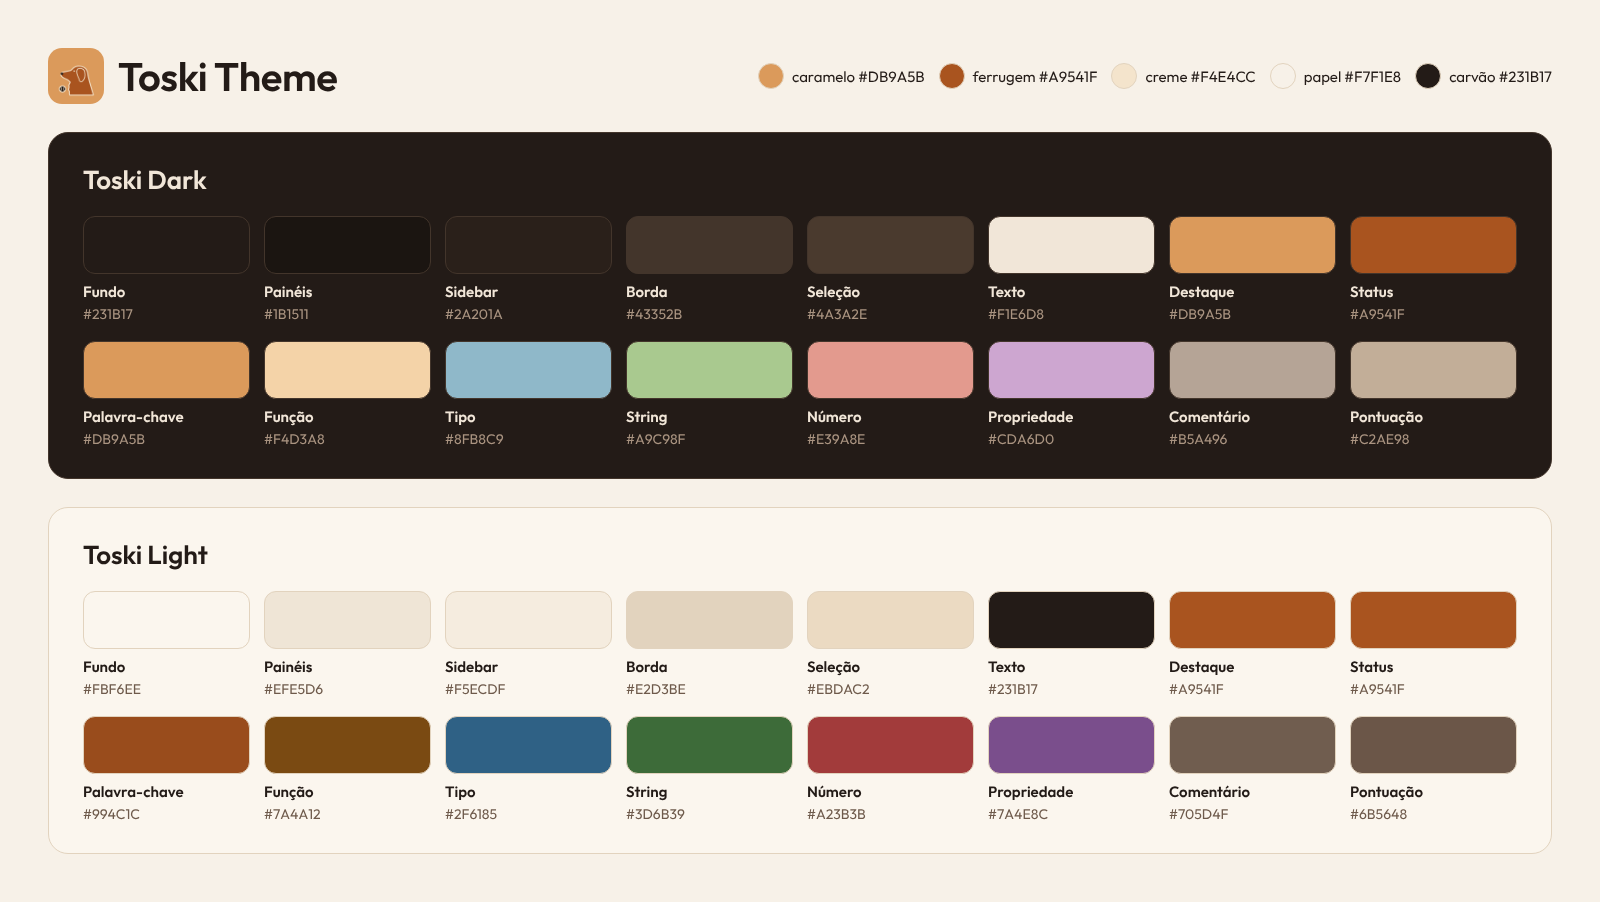
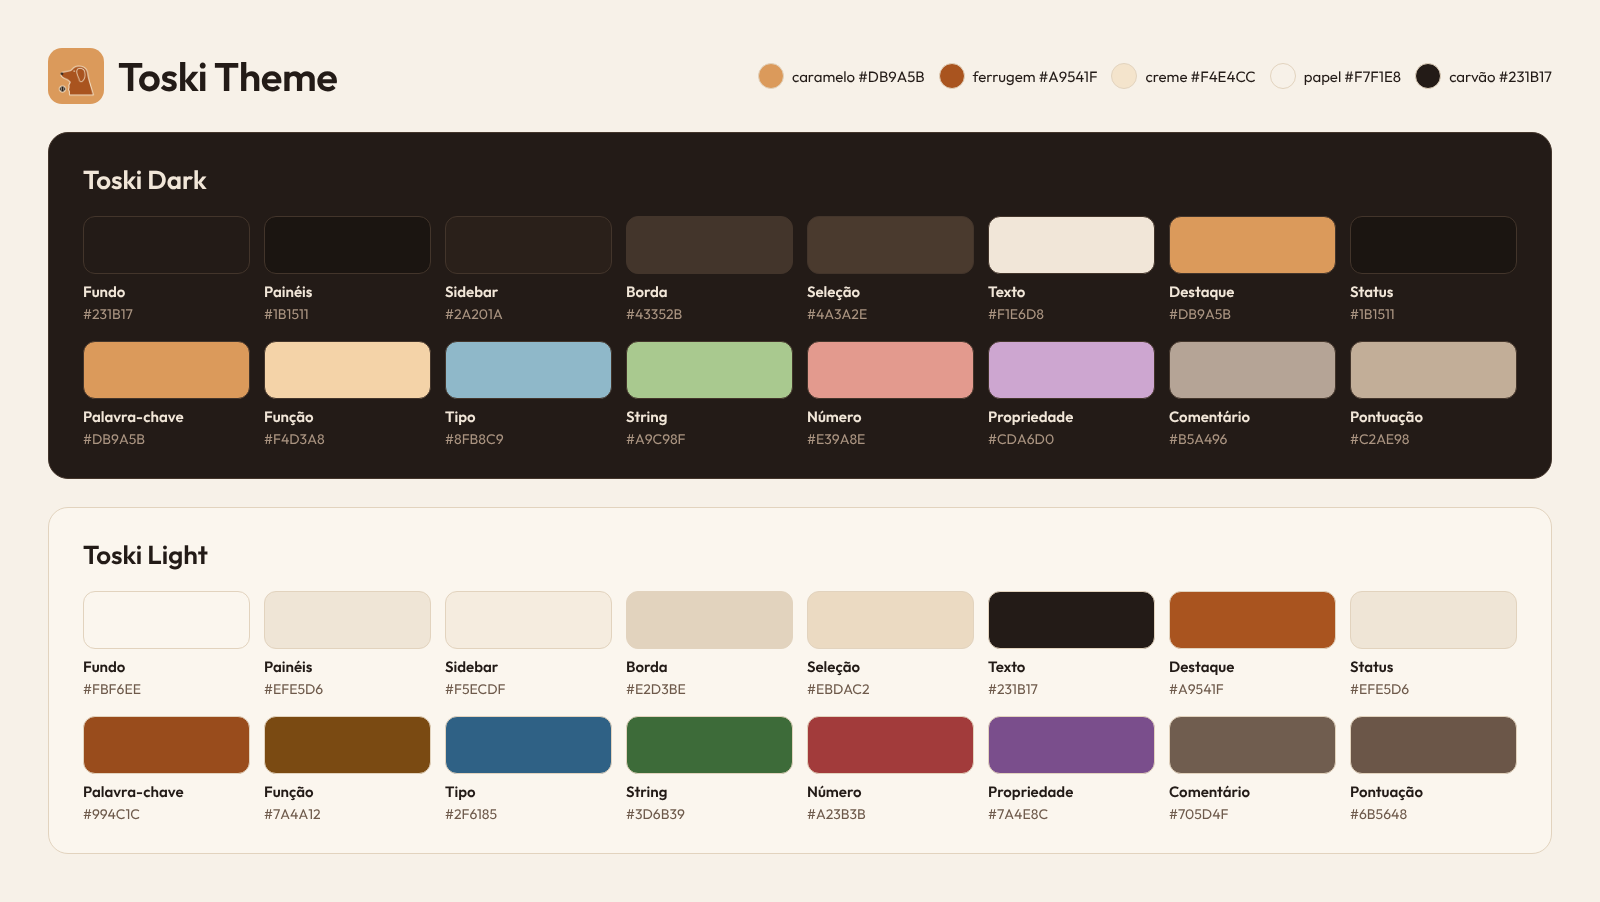
Barra de status discreta nos dois temas
A barra usa a cor dos painéis com texto secundário e só fica ferrugem
durante o debug. Screenshots e paleta atualizados.

Changed region(s): [[0.8438, 0.6519, 0.9688, 0.7761], [0.8438, 0.2173, 0.9688, 0.3104], [0.8438, 0.3415, 0.875, 0.3725]]

diff --git a/scripts/contrast-report.md b/scripts/contrast-report.md
@@ -213,8 +213,12 @@
 | interface | título da janela | `#F1E6D8` | title bar | `#1B1511` | 14.67 | ok |
 | interface | placeholder | `#AA9481` | input | `#1B1511` | 6.25 | ok |
 | interface | texto do input | `#F1E6D8` | input | `#1B1511` | 14.67 | ok |
-| interface | barra de status | `#FFF8EE` | barra de status | `#A9541F` | 5.01 | ok |
-| interface | barra de status | `#FFF8EE` | barra de status (hover) | `#8E491D` | 6.38 | ok |
+| interface | barra de status | `#AA9481` | barra de status | `#1B1511` | 6.25 | ok |
+| interface | barra de status (hover) | `#F1E6D8` | barra de status (hover) | `#3A2D23` | 10.79 | ok |
+| interface | item remoto | `#DB9A5B` | barra de status | `#1B1511` | 7.56 | ok |
+| interface | erro na barra | `#F09A78` | barra de status | `#1B1511` | 8.26 | ok |
+| interface | aviso na barra | `#E8C26B` | barra de status | `#1B1511` | 10.64 | ok |
+| interface | barra de status (debug) | `#FFF8EE` | barra de status (debug) | `#A9541F` | 5.01 | ok |
 | interface | botão | `#231B17` | botão | `#DB9A5B` | 7.08 | ok |
 | interface | botão | `#231B17` | botão (hover) | `#F4D3A8` | 11.87 | ok |
 | interface | botão secundário | `#F1E6D8` | botão secundário | `#3A2D23` | 10.79 | ok |
@@ -494,8 +498,12 @@
 | interface | título da janela | `#231B17` | title bar | `#EFE5D6` | 13.58 | ok |
 | interface | placeholder | `#6E5A4B` | input | `#FBF6EE` | 6.05 | ok |
 | interface | texto do input | `#231B17` | input | `#FBF6EE` | 15.73 | ok |
-| interface | barra de status | `#FFF8EE` | barra de status | `#A9541F` | 5.01 | ok |
-| interface | barra de status | `#FFF8EE` | barra de status (hover) | `#8E491D` | 6.38 | ok |
+| interface | barra de status | `#6E5A4B` | barra de status | `#EFE5D6` | 5.22 | ok |
+| interface | barra de status (hover) | `#231B17` | barra de status (hover) | `#EBDAC2` | 12.36 | ok |
+| interface | item remoto | `#994C1C` | barra de status | `#EFE5D6` | 4.95 | ok |
+| interface | erro na barra | `#A3341A` | barra de status | `#EFE5D6` | 5.50 | ok |
+| interface | aviso na barra | `#6E5500` | barra de status | `#EFE5D6` | 5.69 | ok |
+| interface | barra de status (debug) | `#FFF8EE` | barra de status (debug) | `#A9541F` | 5.01 | ok |
 | interface | botão | `#FFF8EE` | botão | `#A9541F` | 5.01 | ok |
 | interface | botão | `#FFF8EE` | botão (hover) | `#994C1C` | 5.85 | ok |
 | interface | botão secundário | `#231B17` | botão secundário | `#EBDAC2` | 12.36 | ok |

diff --git a/README.md b/README.md
@@ -75,7 +75,8 @@ Para o VS Code usar o Toski Light de dia e o Toski Dark à noite, junto com o ma
 | Texto secundário | `#AA9481` | `#6E5A4B` |
 | Números de linha | `#A08A78` | `#7A6556` |
 | Destaque | `#DB9A5B` | `#A9541F` |
-| Barra de status | `#A9541F` / `#FFF8EE` | `#A9541F` / `#FFF8EE` |
+| Barra de status | `#1B1511` / `#AA9481` | `#EFE5D6` / `#6E5A4B` |
+| Barra de status (debug) | `#A9541F` / `#FFF8EE` | `#A9541F` / `#FFF8EE` |
 | Linha atual | `#2E241D` | `#F7EFE3` |
 | Item ativo da lista | `#3A2D23` | `#EBDAC2` |
 | Seleção | `#4A3A2E` | `#EBDAC2` |
